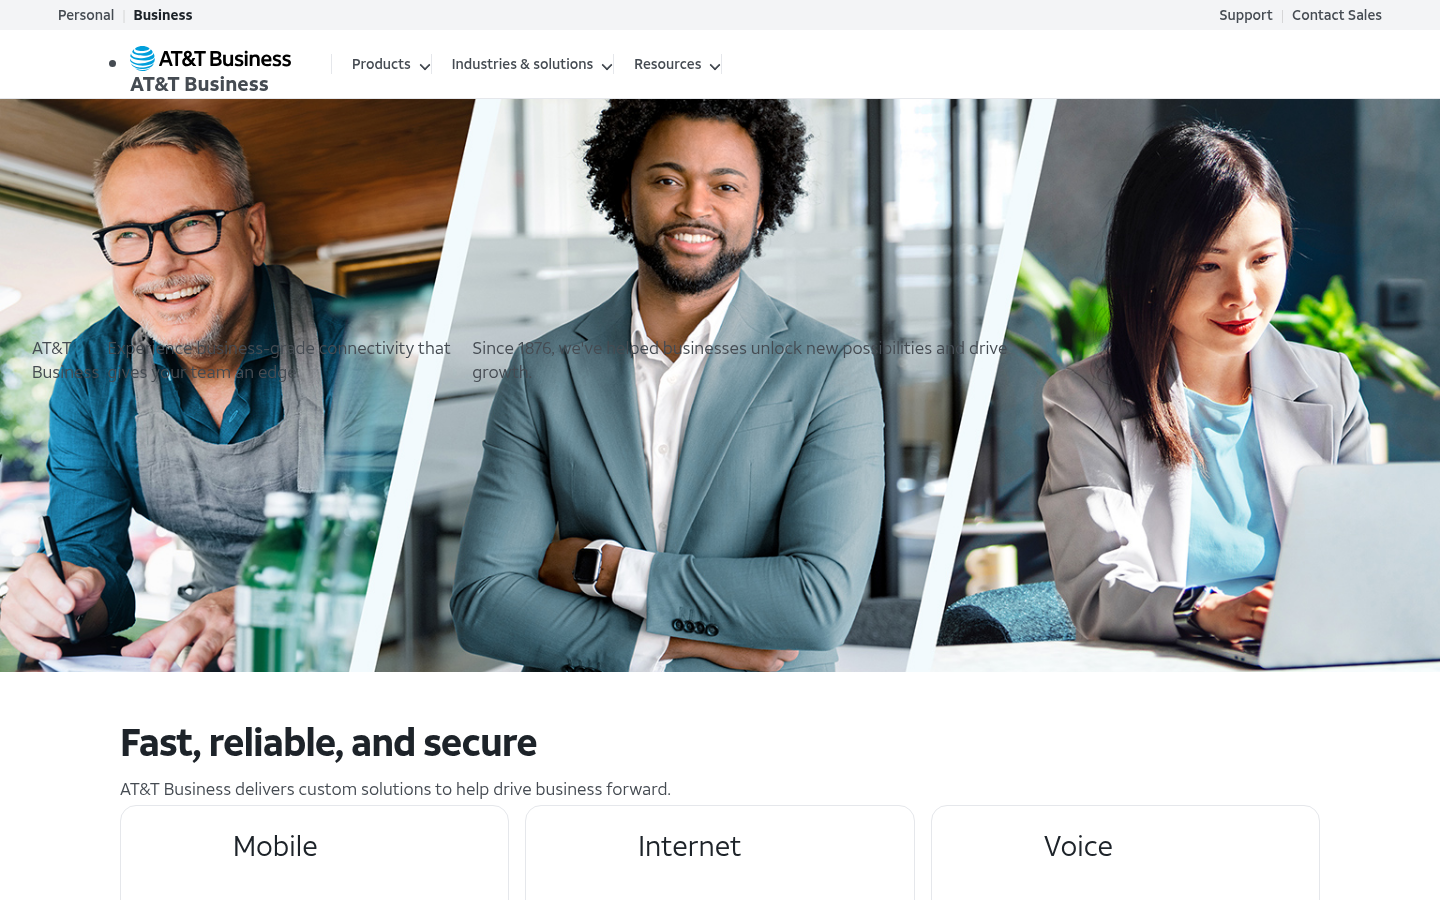
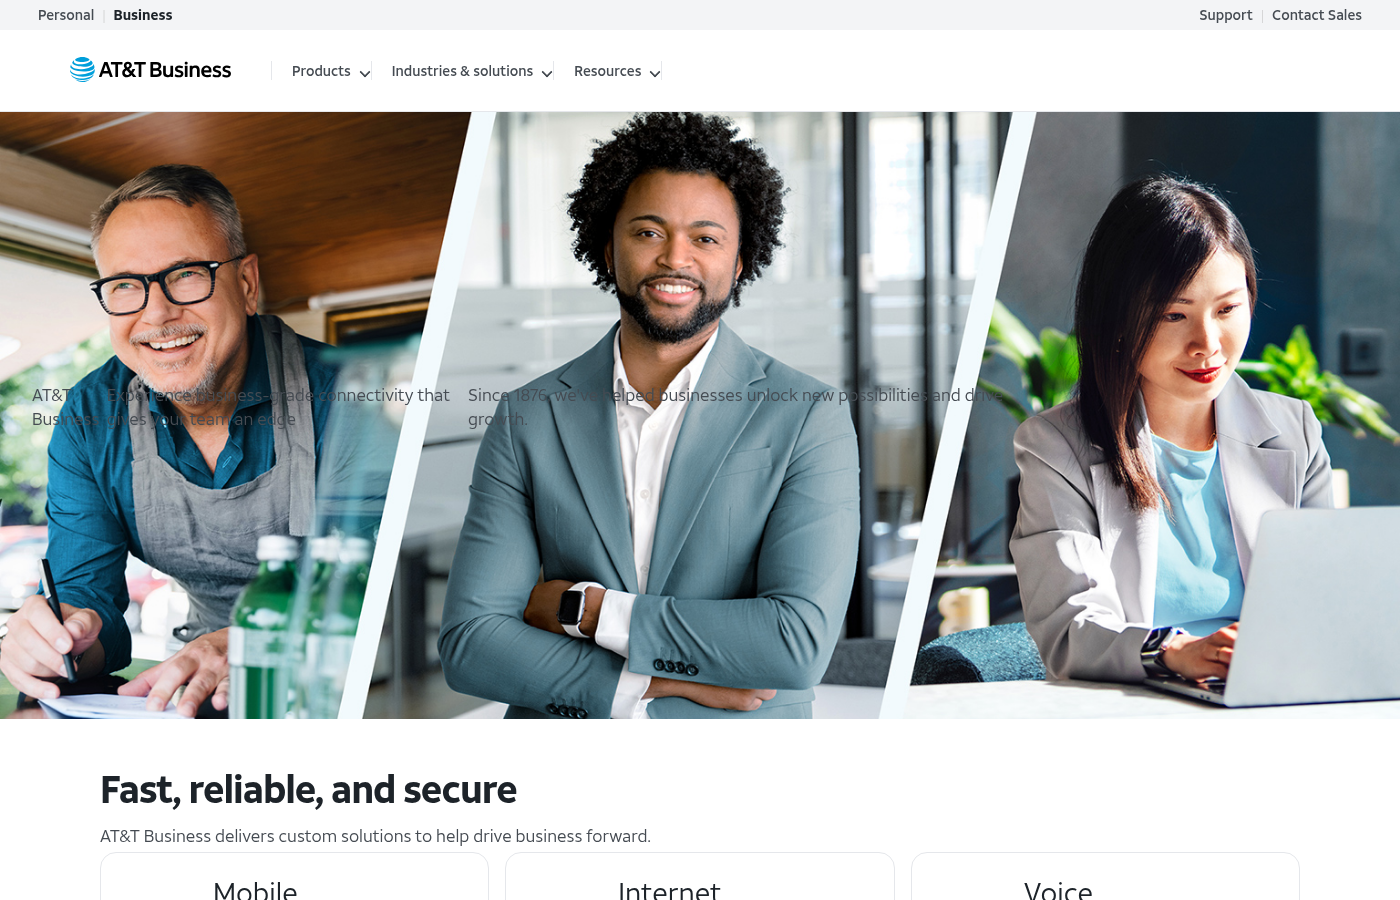
Add header block
Automated migration updates generated by Experience Modernization Agent.

Changed files (5):
- blocks/header/header.css
- eds-header-current2.png
- eds-header-fixed.png
- source-header-clean.png
- source-header-desktop.png

diff --git a/blocks/header/header.css b/blocks/header/header.css
@@ -296,6 +296,10 @@ header .nav-top-tools a:hover {
 
 /* ===== Desktop layout ===== */
 @media (width >= 900px) {
+  header {
+    height: 111px; /* 30px top bar + 81px main nav */
+  }
+
   header .nav-wrapper {
     position: relative;
   }
@@ -312,7 +316,7 @@ header .nav-top-tools a:hover {
     gap: 0;
     max-width: 1324px;
     padding: 0 32px;
-    height: 68px;
+    height: 81px;
     min-height: 0;
     overflow: visible;
   }
